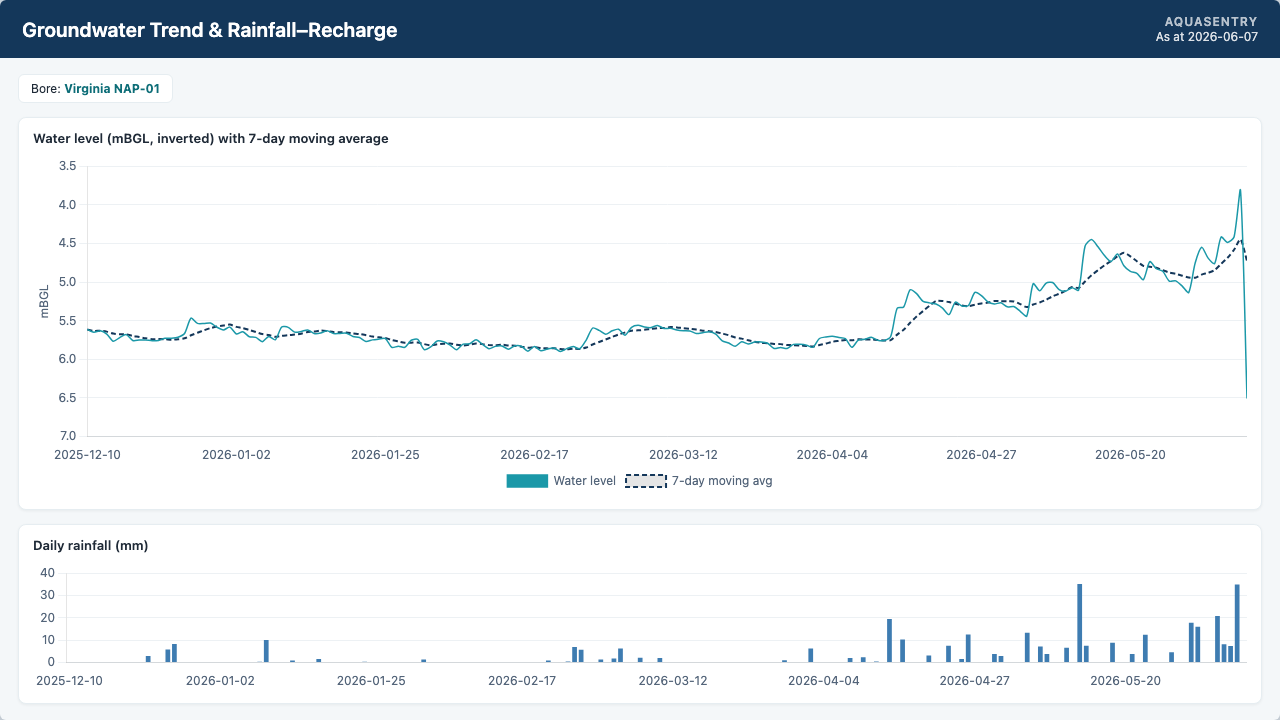
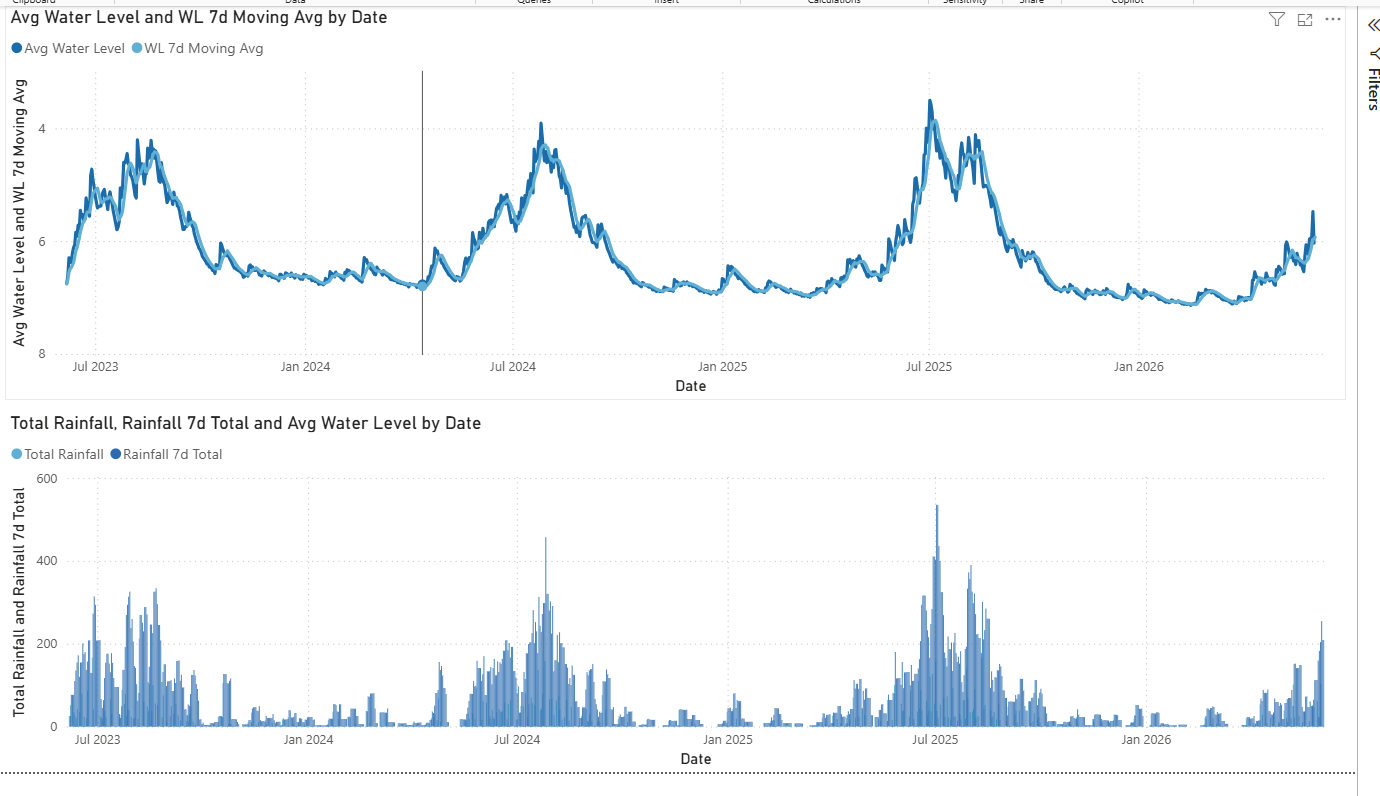
Restore Power BI screenshots and data model section; keep overview as HTML

diff --git a/README.md b/README.md
@@ -51,6 +51,12 @@ KPI cards and a status map for an at-a-glance operational picture.
 <img width="1274" height="655" alt="02_overview" src="https://github.com/user-attachments/assets/83662c44-b6af-4e48-944d-29a83e6e41f2" />
 
 
+**How the data fits together** — a clean star-style model: `monitoring_wells`
+and a `Date` dimension fanning out to the water-level, rainfall and anomaly
+fact tables.
+
+![Power BI data model](powerbi/screenshots/01_data_model.png)
+
 **Is the aquifer recharging?** — water level with its 7-day moving average
 (mBGL: higher values mean deeper, plotted downward), alongside daily and
 7-day cumulative rainfall. Winter rainfall peaks line up with the water-table
